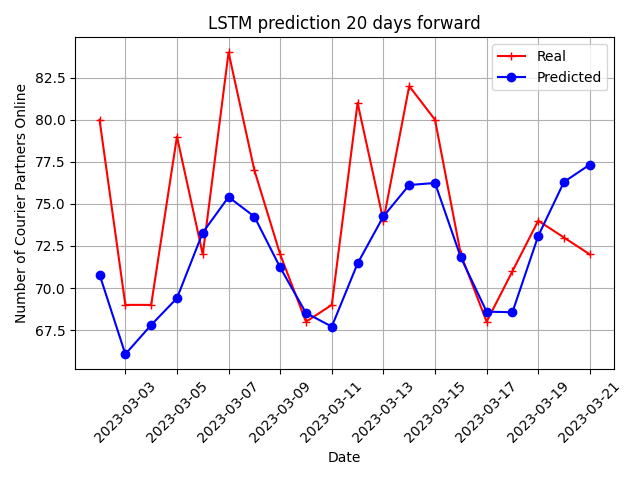
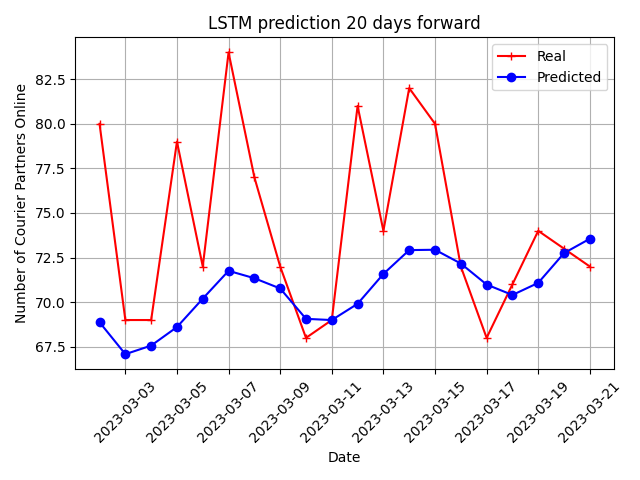
modified notebooks

diff --git a/wolt_test_assignment/pipeline.py b/wolt_test_assignment/pipeline.py
@@ -19,7 +19,7 @@ try:
         "Training models for next-day prediction",
     )
     run_command(
-        "python modeling/train.py --epochs 20 --batch-size 32 --training-days 40 --n-steps 20",
+        "python modeling/train.py --epochs 60 --batch-size 32 --training-days 40 --n-steps 20",
         "Training models for multiple-day prediction",
     )
     run_command(
